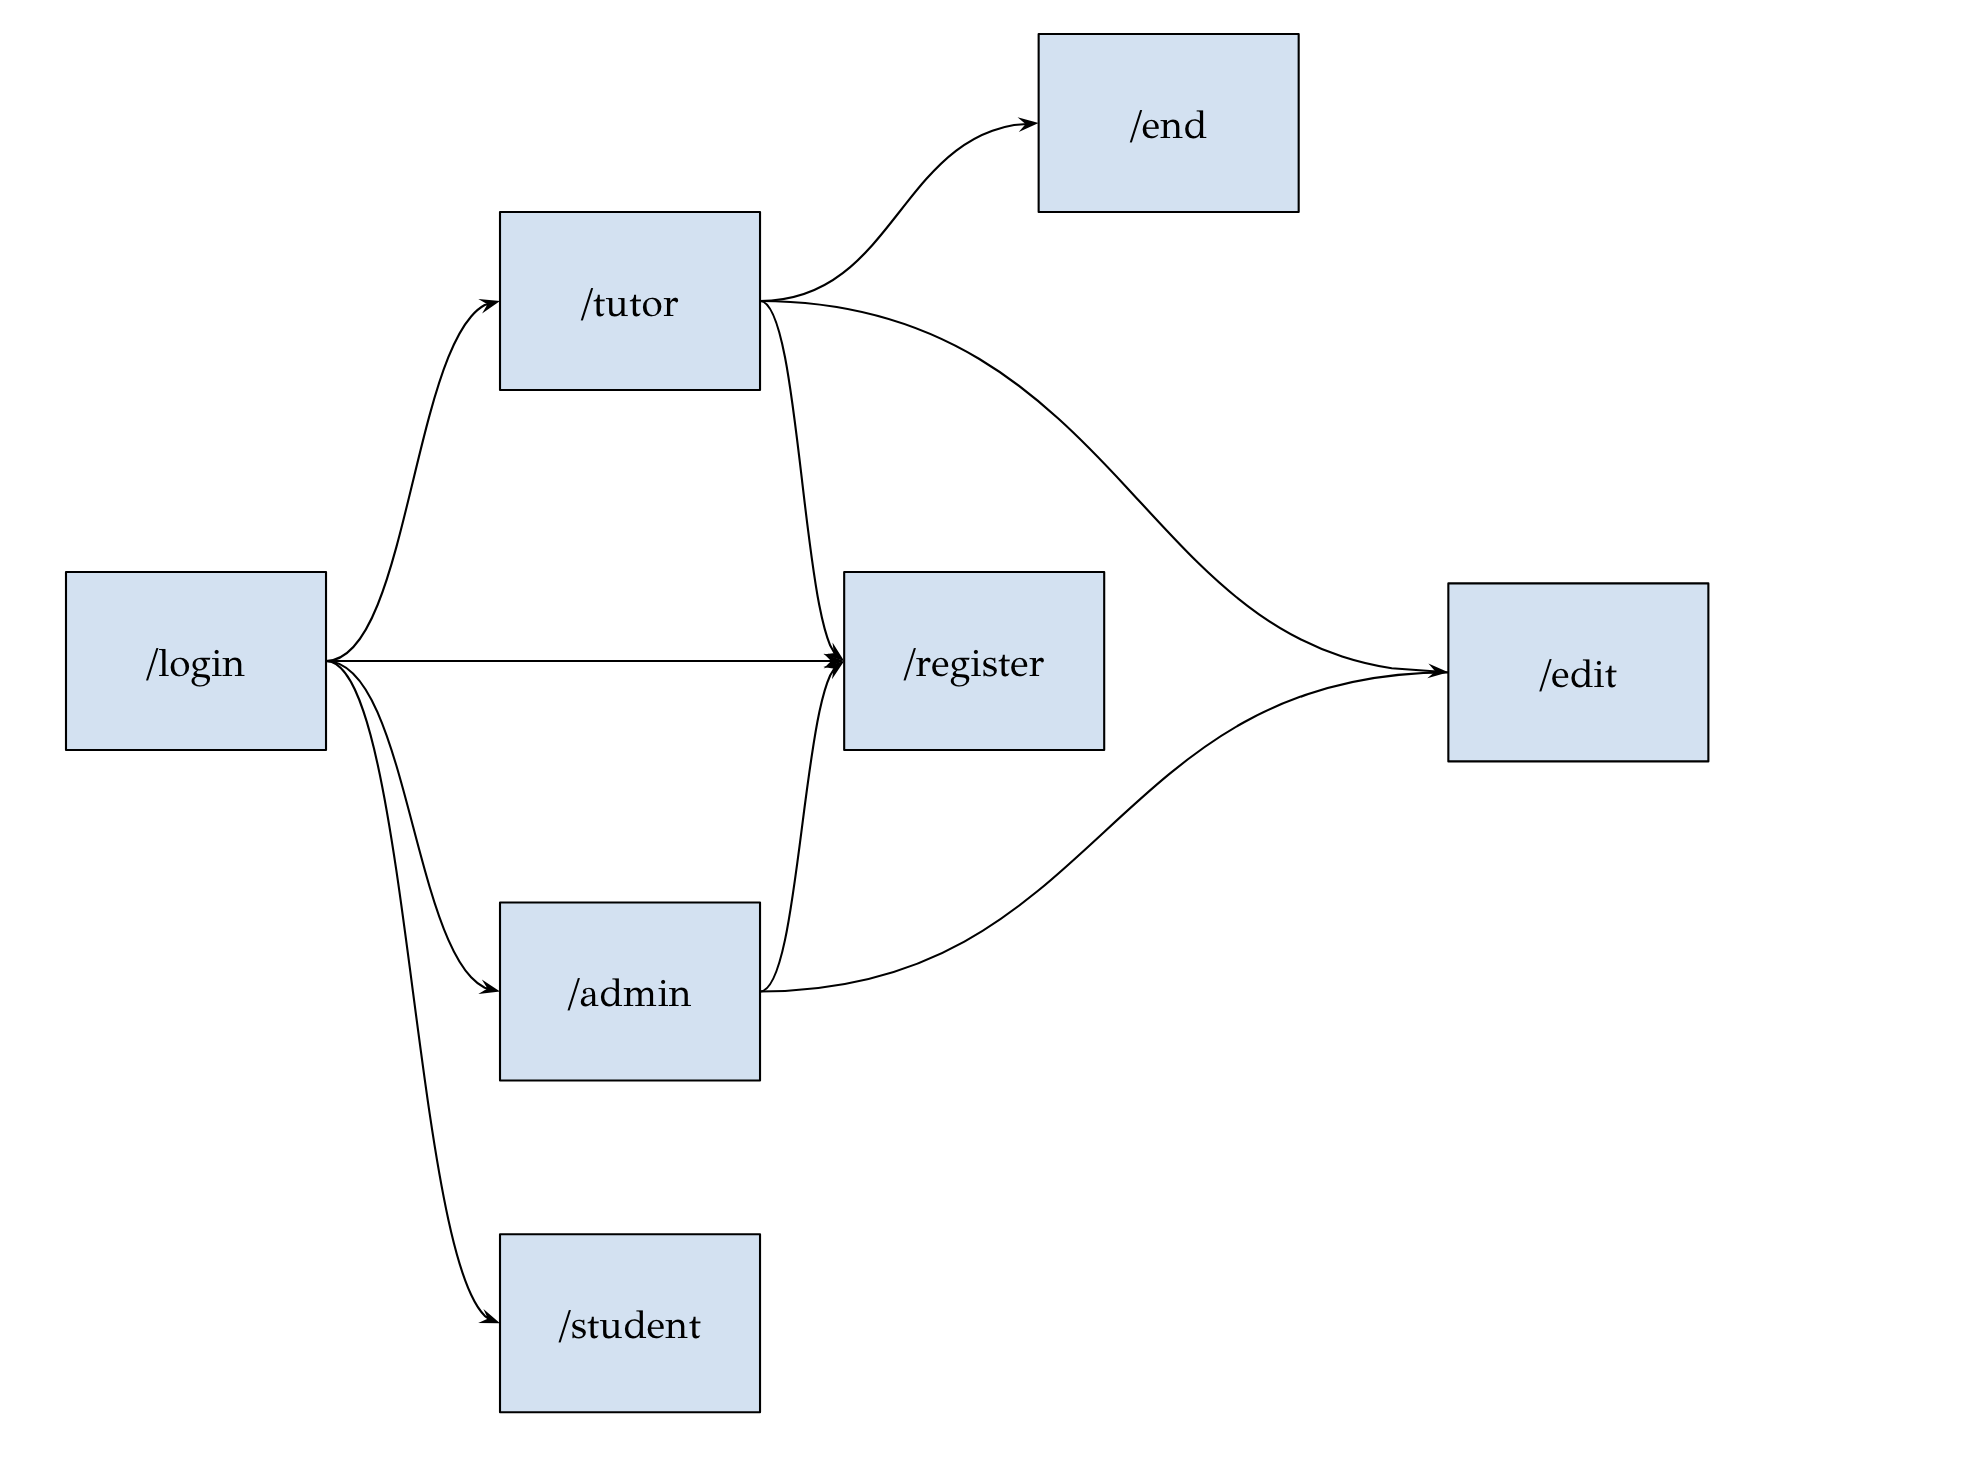
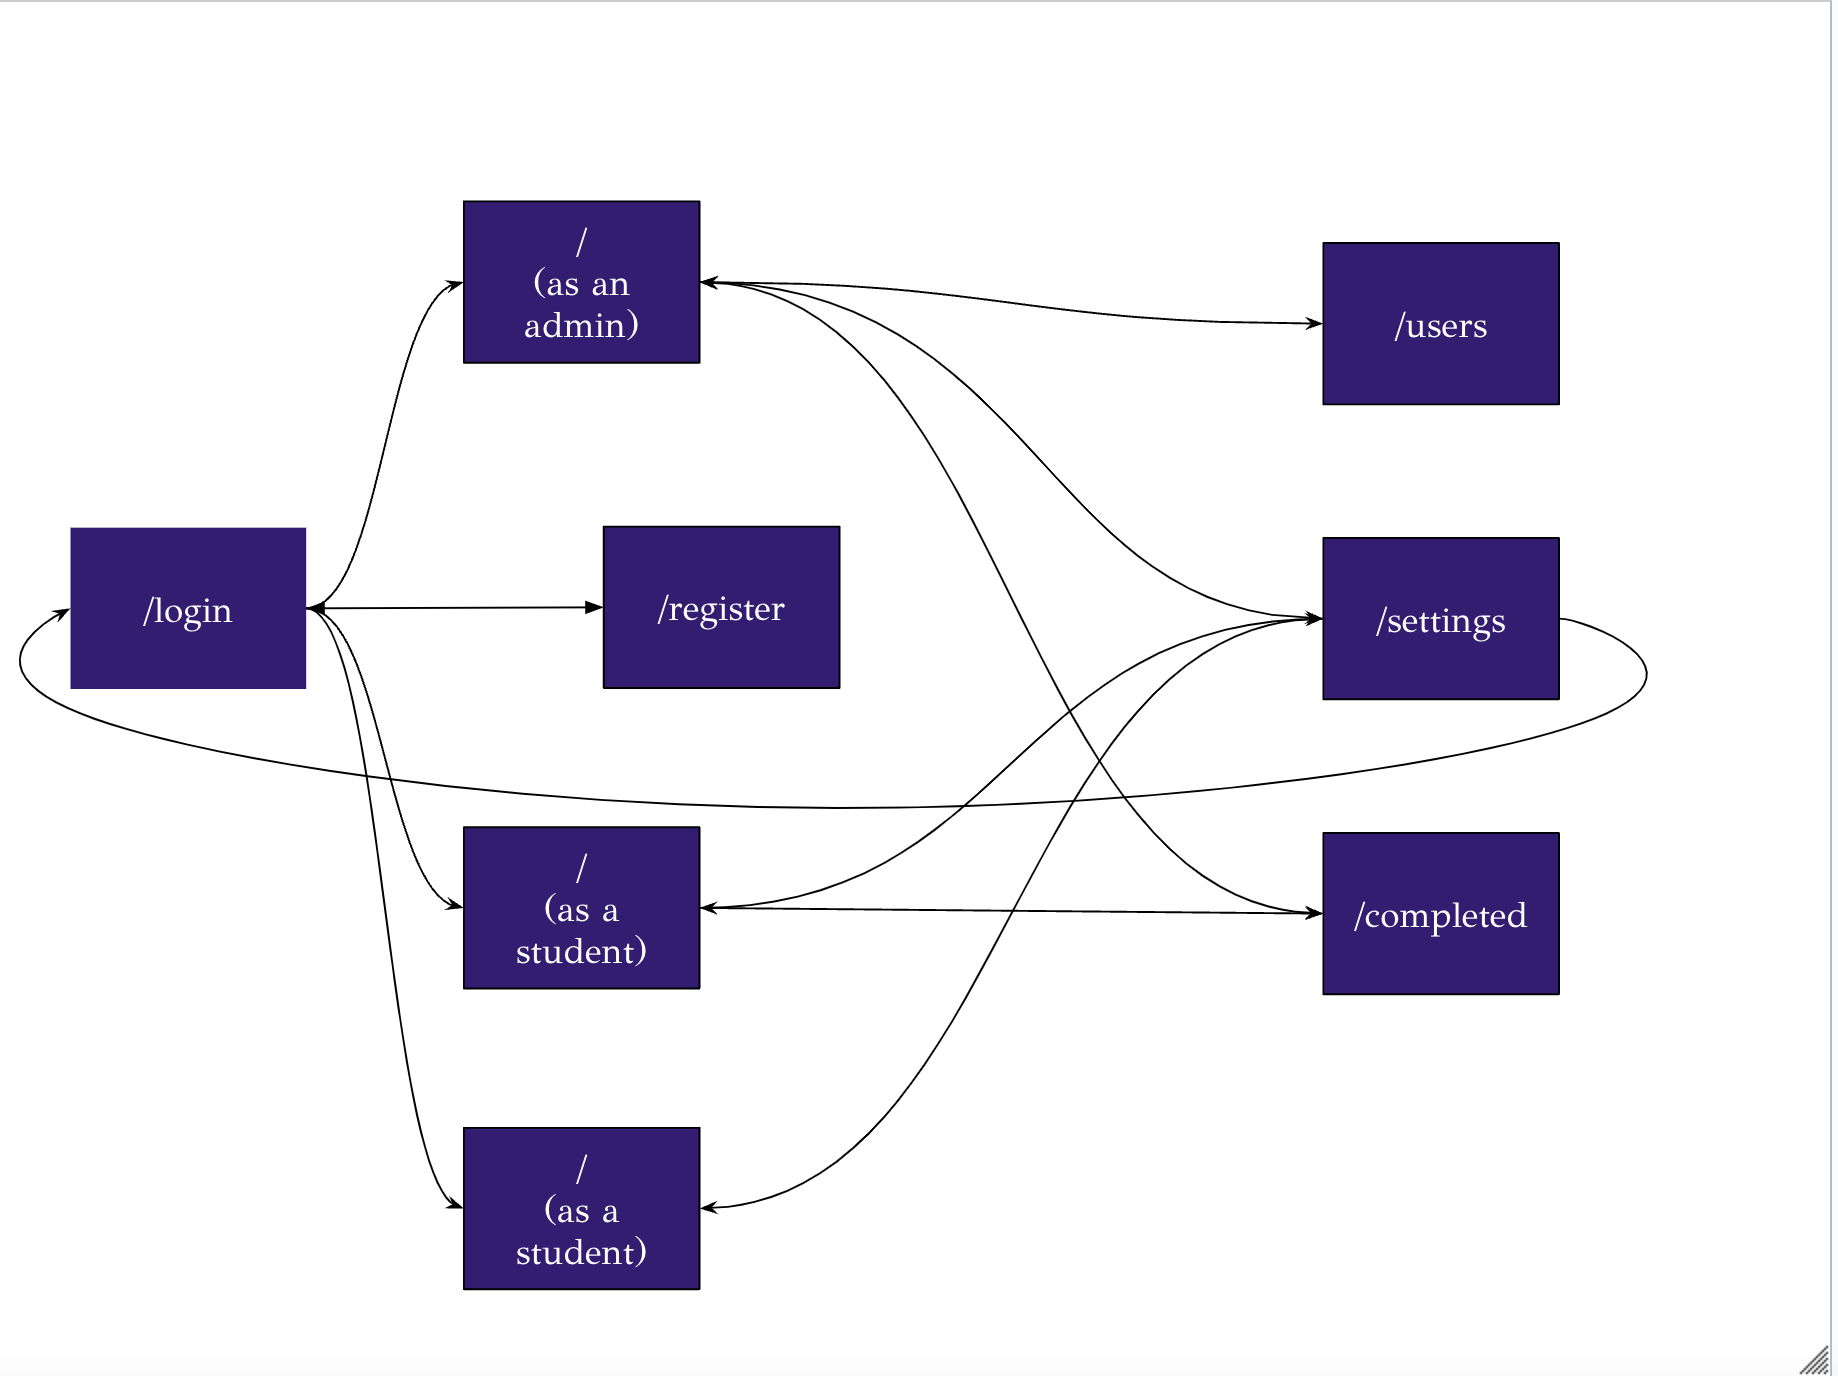
updating wireframes and sitemap

diff --git a/README.md b/README.md
@@ -98,6 +98,17 @@ An Example Course:
 
 ![list](documentation/tutor.png)
 
+/ - editing a session
+
+as a tutor:
+![list](documentation/tutor-edit.png)
+
+as an admin:
+![list](documentation/admin-edit.png)
+
+/ - ending a session
+![list](documentation/end.png)
+
 /settings - page for editing a user's profile
 
 ![list](documentation/settings.png)
@@ -114,13 +125,9 @@ An Example Course:
 
 ![list](documentation/register.png)
 
-/edit - page for editing a student
+/completed - page for viewing all completed sessions
 
-![list](documentation/edit.png)
-
-/end - page for ending a session
-
-![list](documentation/end.png)
+![list](documentation/completed.png)
 
 ## Site map
 
